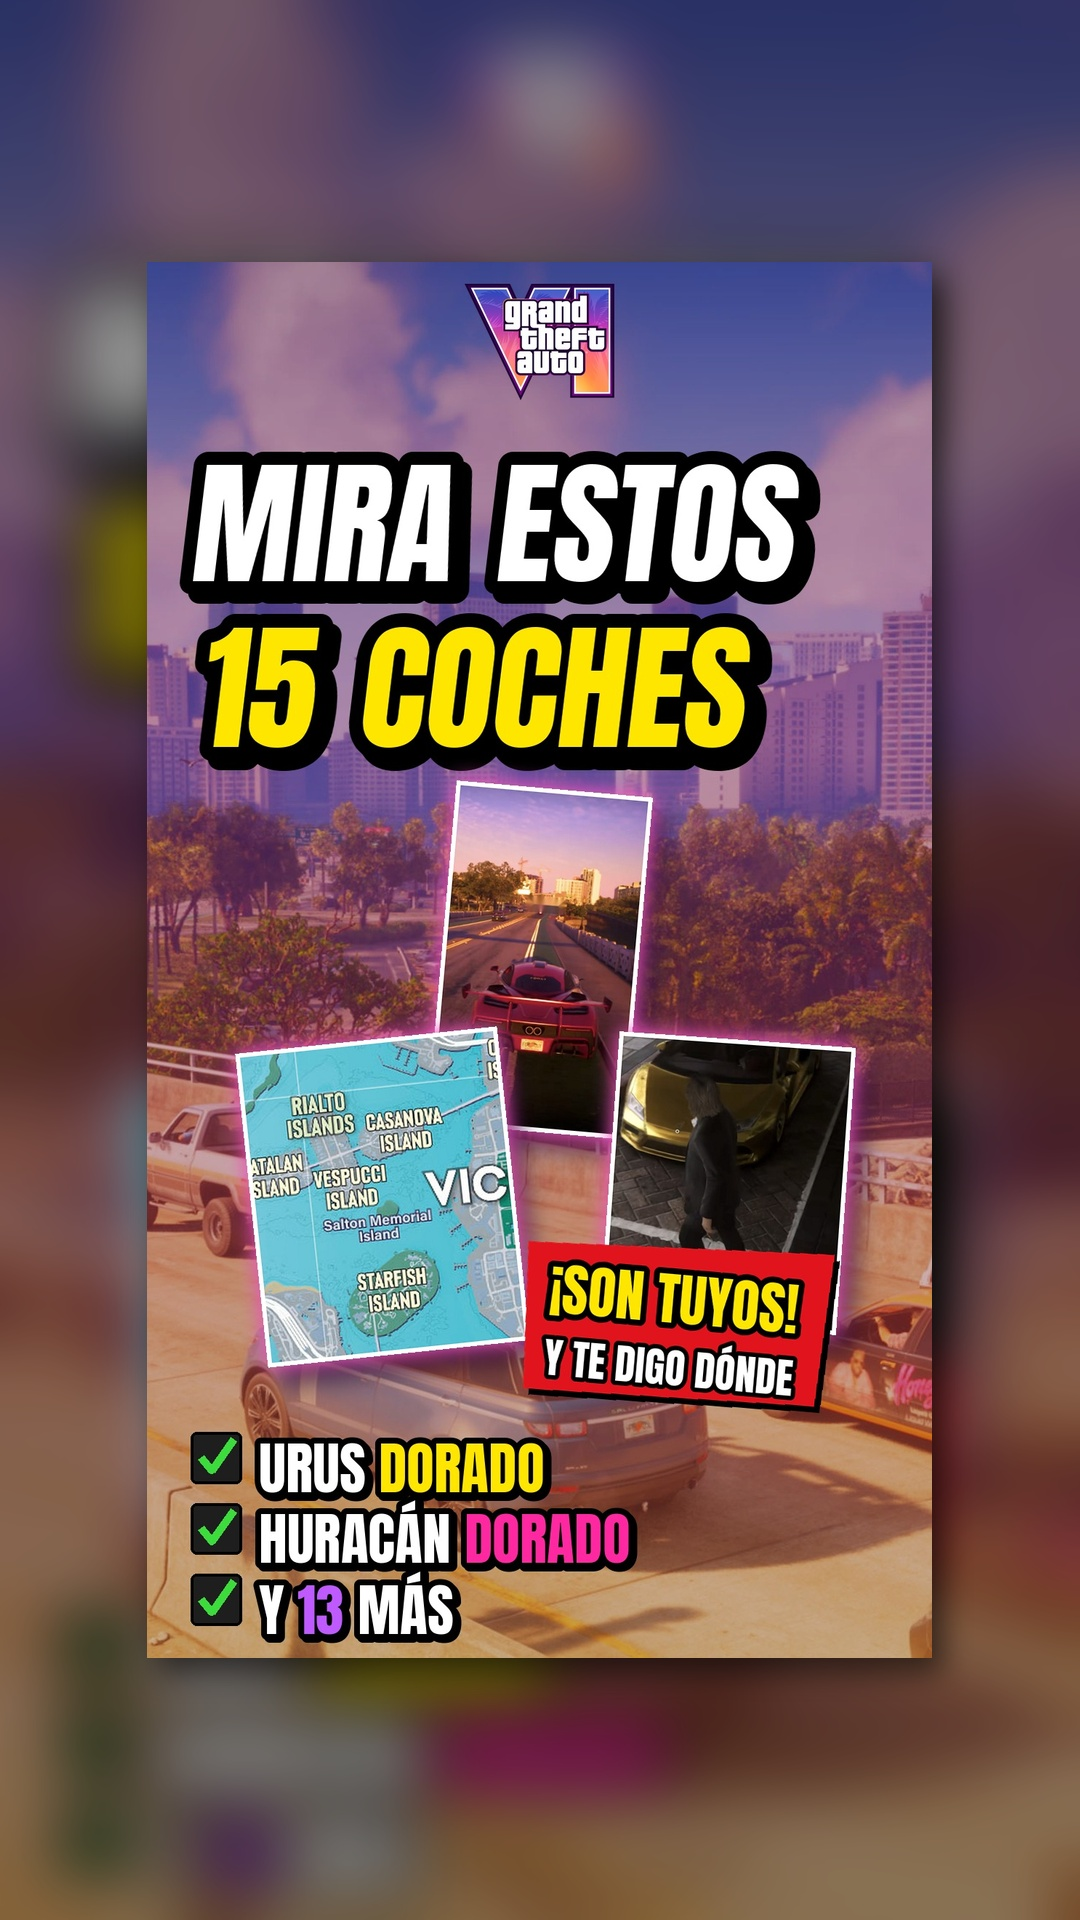
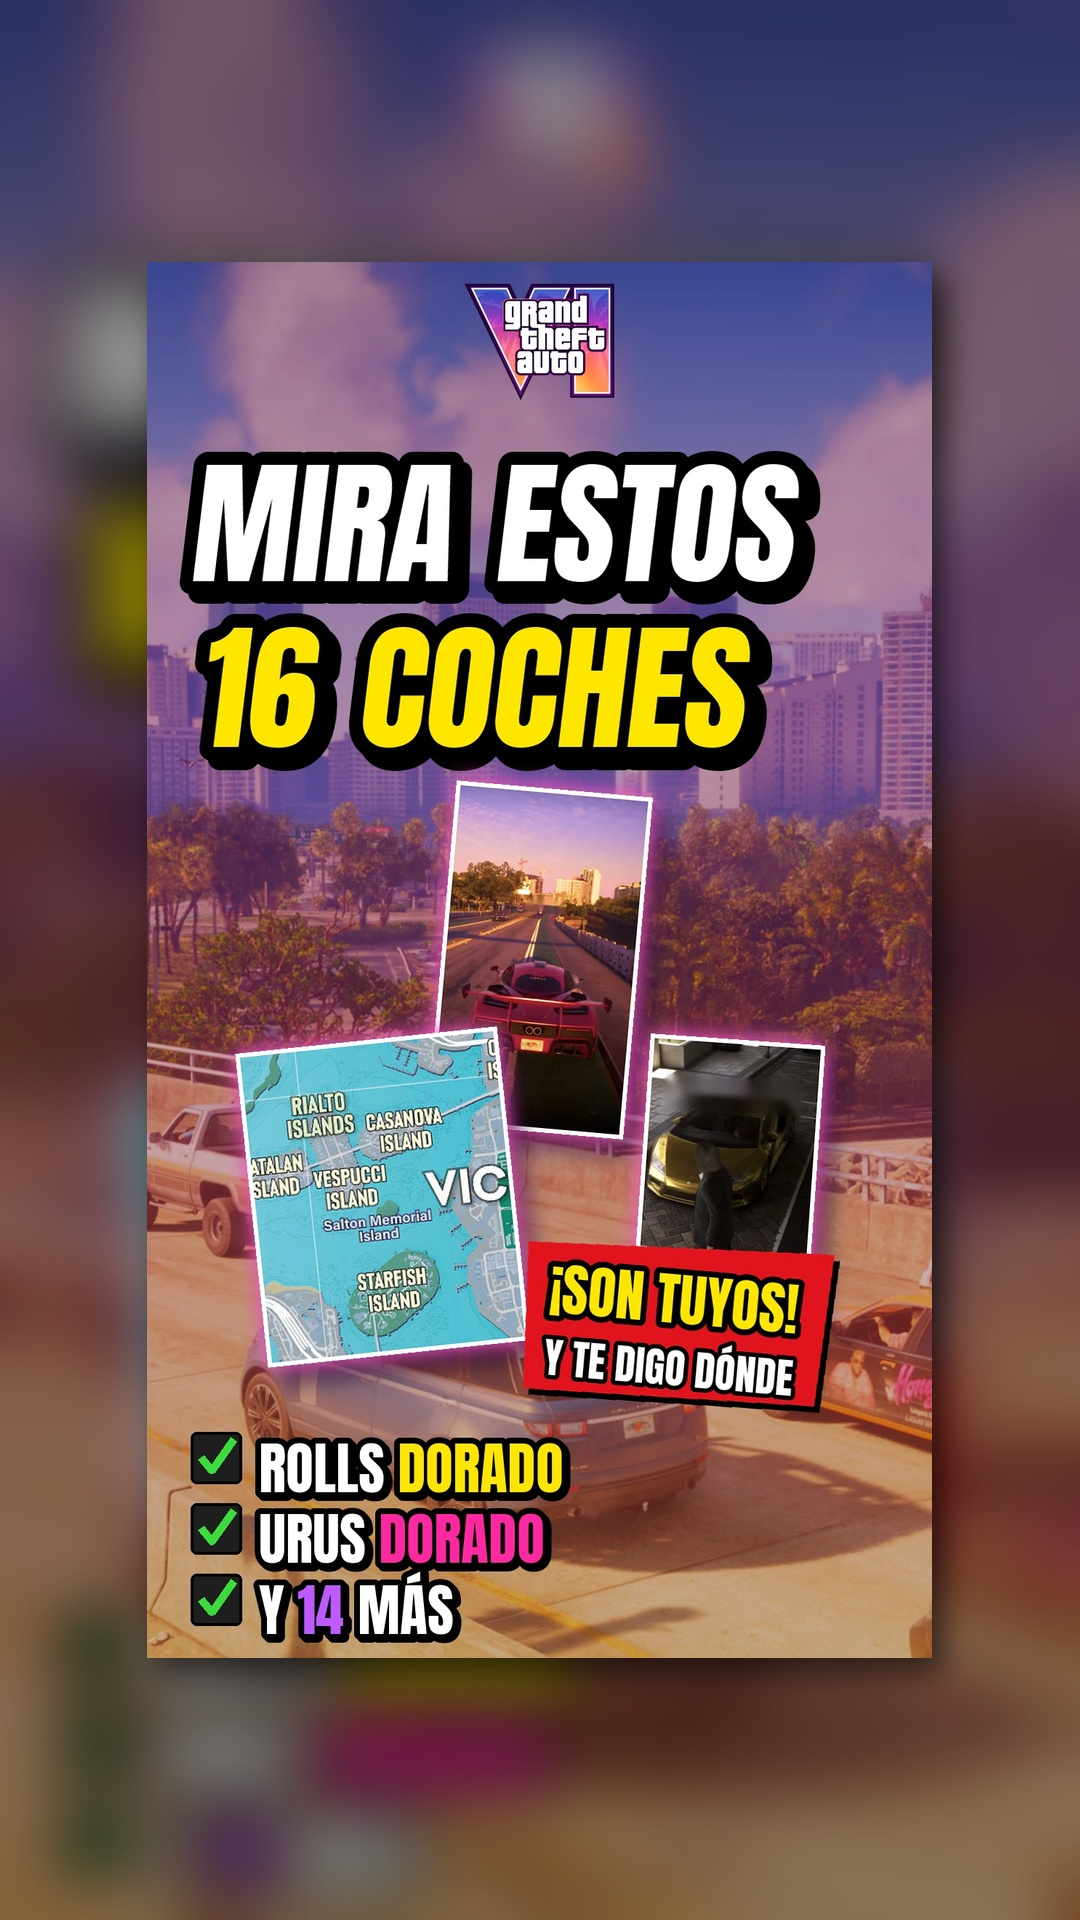
Coches que puedes conseguir: añadido el Rolls-Royce dorado (Windsor Drop)
Claude-Session: https://claude.ai/code/session_013MoWpNiFMbWerhH5TTscuF

diff --git a/canal/guiones_dinero.py b/canal/guiones_dinero.py
@@ -566,12 +566,12 @@ V("d28-coches-reales", "DESDE EL CAP. 2",
    B("Envíaselo a ese amigo que se sabe todos los coches. Y pregúntale...", ["img:u_lb_evo!"]),
   ], titulo="LOS COCHES🏎 que puedes tener en gta VI"),
 V("d29-coches-raros", "¡SON TUYOS!",
-  "Mira los 15 coches que puedes conseguir en GTA 6 y dónde está cada uno 🏎 Los dos Emerus (el rojo de Vespucci y el morado de Chatfield), el clon del Eclipse, los dos Lamborghini Urus dorados (Pegassi Toros), el Huracán dorado (Pegassi Tempesta), los del garaje de Starfish Island y más\n\n"
+  "Mira los 16 coches que puedes conseguir en GTA 6 y dónde está cada uno 🏎 Los dos Emerus (el rojo de Vespucci y el morado de Chatfield), el clon del Eclipse, los dos Lamborghini Urus dorados (Pegassi Toros), el Huracán dorado (Pegassi Tempesta), el Rolls-Royce dorado, los del garaje de Starfish Island y más\n\n"
   "gta 6, coches gta 6, lamborghini gta 6, coches raros gta 6, coche gratis gta 6, urus gta 6, huracan gta 6, pegassi toros gta 6, starfish island gta 6, casanova island gta 6\n\n"
   "#shorts #videoshorts #gta6 #cochesgta6 #lamborghini",
   [
-   B("¡Mira los *quince* coches que puedes conseguir en GTA seis! Este Emerus rojo puede ser tuyo...",
-     ["img:u_vesp_emerus3"], stat="15 COCHES", golpe=True),
+   B("¡Mira los *dieciséis* coches que puedes conseguir en GTA seis! Este Emerus rojo puede ser tuyo...",
+     ["img:u_vesp_emerus3"], stat="16 COCHES", golpe=True),
    B("... en la mansión de un narco de Vespucci Island. Entra por detrás y te lo llevas.", ["map:ves", "img:u_vesp_emerus"], cortes=["Entra"]),
    B("En la misma isla, en un garaje, el clon del Eclipse verde de A todo gas.", ["img:u_rc_penumbra!"],
      gfx=[dict(t="icono", emoji="🟢", titulo="MAIBATSU PENUMBRA", sub="Vespucci Island · en un garaje", y=0.2, desde="garaje")]),
@@ -589,6 +589,8 @@ V("d29-coches-raros", "¡SON TUYOS!",
      gfx=[dict(t="icono", emoji="🖤", titulo="COMO EL AVENTADOR", sub="garaje de Starfish Island", y=0.2, desde="negro")]),
    B("... o este rojo, como el Ferrari F8.", ["img:u_lb_f8!"],
      gfx=[dict(t="icono", emoji="🐎", titulo="COMO EL FERRARI F8", sub="garaje de Starfish Island", y=0.2, desde="rojo")]),
+   B("Y en la misma isla, en la mansión del lado oeste, este Rolls-Royce dorado: el Windsor Drop. Saltas la verja y abres el garaje.",
+     ["img:u_rc_rolls!"], gfx=[dict(t="icono", emoji="👑", titulo="WINDSOR DROP", sub="= Rolls-Royce Dawn · Starfish Island", y=0.2, desde="Windsor")]),
    B("En un garaje de Capri, junto a la costa, este azul y naranja de carreras.", ["map:capri", "img:u_rc_capri!"], cortes=["este"]),
    B("En Casanova Island, en el garaje de una mansión, un Lamborghini Urus dorado: en el juego, el Pegassi Toros. Matrícula: CASH TALKS.",
      ["map:casa", "img:u_lb_urus!", "img:u_lb_urus2!"], cortes=["Lamborghini", "Matrícula"], riser=True,

diff --git a/canal/portadas_especiales_d29.py b/canal/portadas_especiales_d29.py
@@ -8,7 +8,7 @@ W, H = 1080, 1920
 b = mn._fondo("extra/x050_hero_background_ultrawide.jpg", W, H, (0.5, 0.5)).convert("RGBA")
 b.alpha_composite(Image.new("RGBA", (W, H), (25, 5, 45, 60)))
 mn.pegar_logo(b, "extra/x126_poster_logo.png", W / 2, 30, 160, centro=True)
-mn.texto_color(b, ["MIRA ESTOS", "*15* *COCHES*"], W * .47, 215, W - 220, 190)
+mn.texto_color(b, ["MIRA ESTOS", "*16* *COCHES*"], W * .47, 215, W - 220, 190)
 mn._figura(b, dict(img="u_vesp_emerus3.jpg", x=.5, y=.5, h=.24, rot=-5, marco=True), W, H)
 m = Image.open(mn._ruta("oficial_extra/Leonida_Map_Poster.jpg")).convert("RGB")
 cx, cy = .786 * m.width, .49 * m.height
@@ -21,5 +21,5 @@ d = None
 mn._figura(b, dict(img=m, x=.3, y=.67, h=.22, rot=6, marco=True), W, H)
 mn._figura(b, dict(img="u_lb_huracan.jpg", x=.74, y=.66, h=.2, rot=-4, marco=True), W, H)
 mn.sello(b, "¡SON TUYOS!", "Y TE DIGO DÓNDE", W * .68, 1460, 420, rot=-5)
-mn.lista(b, ["URUS *DORADO*", "HURACÁN _DORADO_", "Y ~13~ MÁS"], 60, 1600, 78)
+mn.lista(b, ["ROLLS *DORADO*", "URUS _DORADO_", "Y ~14~ MÁS"], 60, 1600, 78)
 b.convert("RGB").save(sys.argv[1], quality=93)

diff --git a/FUENTES.md b/FUENTES.md
@@ -194,3 +194,4 @@ Carrusel que pasó el usuario (@dirklandschreiber, «Rockstar Games via @adnaanj
 - Actualización (usuario: «faltan todos los Lamborghini»): se juntan los Lamborghini de las capturas del usuario. Urus dorado = Pegassi Toros en el garaje de Casanova Island (el mismo del carrusel); Huracán dorado = Pegassi Tempesta a los pies de la torre Crimson Palms (Sportskeeda y un post de X); el garaje de la mansión de Starfish Island saca un superdeportivo distinto cada vez (post de X), por eso ahí van el naranja, el «como el Aventador» y el «como el F8». El «EVO» y el «STO»: sin sitio confirmado («en otros garajes de lujo»).
 - Actualización (usuario: «faltan los coches de mis primeras capturas»): se añaden el Emerus rojo de la mansión narco de Vespucci (capturas del usuario, ver «Mansión de Vespucci»; es el mismo Progen Royal Ruby Emerus del carrusel), el Emerus morado de Chatfield Storage (ver «Emerus morado») y el Toros dorado de La Perle (ver «Toros dorado de La Perle»). Total: 15 coches.
 - Actualización: fotos del Emerus morado sacadas del vídeo de @manoliinyt CON su marca de TikTok (solo se quitan los subtítulos); foto del deportivo verde de Stockyard del carrusel con la etiqueta «IMAGEN ILUSTRATIVA» (parece IA).
+- Actualización: Rolls-Royce dorado (foto del usuario) = Buckingham Windsor Drop (Rolls-Royce Dawn, puertas de apertura inversa), en la mansión del lado oeste de Starfish Island: saltar la verja y abrir el garaje; de la lista de Randy: https://gameshorizon.com/guides/gta-6-all-randys-wishlist-cars-locations/ · https://gta.fandom.com/wiki/Windsor_Drop (el color dorado y «el más caro» no están confirmados: no se dicen).
